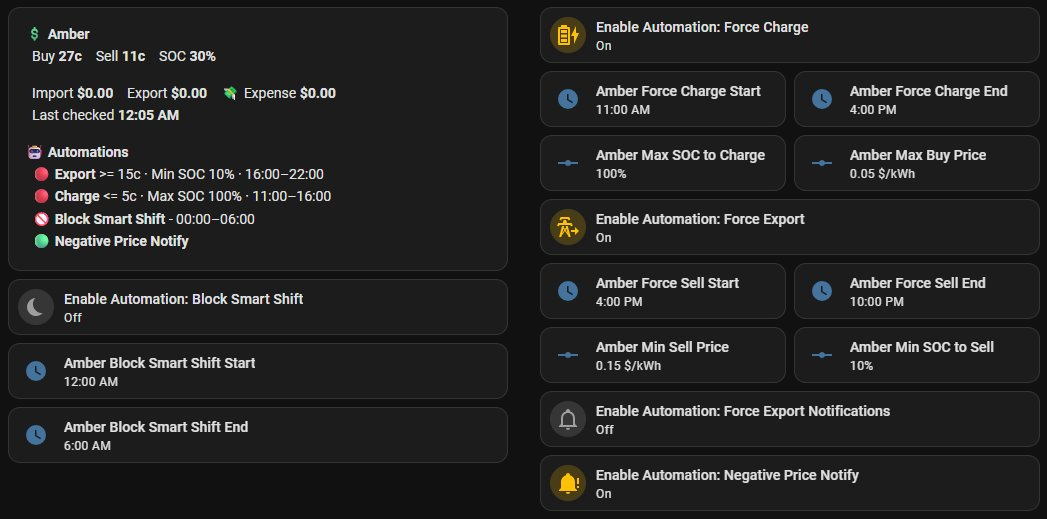
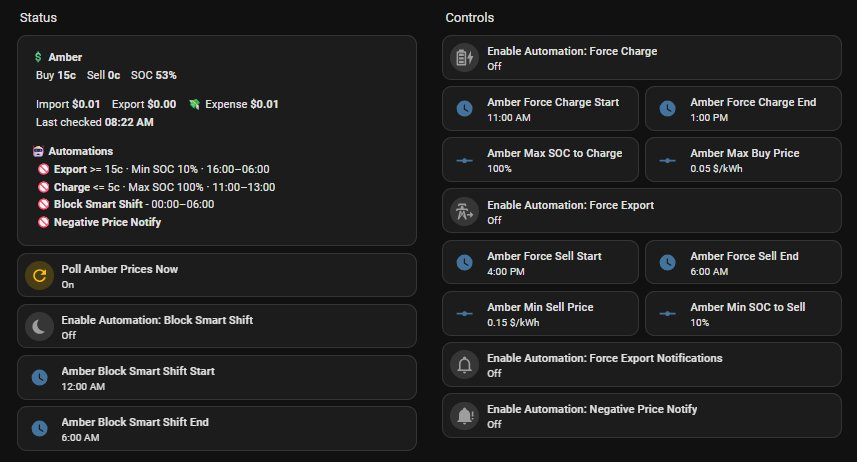
Fixed smtp

diff --git a/custom_components/amber_integration/scripts/configure_smtp.py b/custom_components/amber_integration/scripts/configure_smtp.py
@@ -1,6 +1,7 @@
 #!/usr/bin/env python3
 """Configure SMTP notifications in amber.yaml"""
 import sys
+import re
 
 pkg_path = sys.argv[1]
 smtp_user = sys.argv[2]
@@ -9,26 +10,14 @@ with open(pkg_path, 'r') as f:
     content = f.read()
 
 # Already configured
-if '- name: amber_smtp' in content and '#' not in content.split('- name: amber_smtp')[0].split('\n')[-1]:
+if '  - name: amber_smtp' in content:
     print("already configured")
     sys.exit(0)
 
-# Find and replace the commented smtp block
-commented = (
-    '  # Then add "- service: amber_smtp" to the group services above.\n'
-    '  #\n'
-    '  # - name: amber_smtp\n'
-    '  #   platform: smtp\n'
-    '  #   server: !secret smtp_server\n'
-    '  #   port: 587\n'
-    '  #   timeout: 15\n'
-    '  #   sender: !secret smtp_username\n'
-    '  #   encryption: starttls\n'
-    '  #   username: !secret smtp_username\n'
-    '  #   password: !secret smtp_password\n'
-    '  #   recipient:\n'
-    '  #     - "your@email.com"    # <- your email address\n'
-    '  #   sender_name: "Home Assistant - Amber"'
+# Replace the entire optional email section including surrounding comment lines
+commented_pattern = re.compile(
+    r'  # ─── OPTIONAL: uncomment and fill in to add email.*?(?=\n  # ─── OPTIONAL: add mobile)',
+    re.DOTALL
 )
 
 uncommented = (
@@ -42,16 +31,19 @@ uncommented = (
     '    username: !secret smtp_username\n'
     '    password: !secret smtp_password\n'
     '    recipient:\n'
-    f'      - "{smtp_user}"\n'
-    '    sender_name: "Home Assistant - Amber"'
+    '      - "' + smtp_user + '"\n'
+    '    sender_name: "Home Assistant - Amber"\n'
 )
 
-content = content.replace(commented, uncommented)
-content = content.replace(
-    '      - service: persistent_notification',
-    '      - service: persistent_notification\n      - service: amber_smtp'
-)
-
-with open(pkg_path, 'w') as f:
-    f.write(content)
-print("done")
+if commented_pattern.search(content):
+    content = commented_pattern.sub(uncommented, content)
+    content = content.replace(
+        '      - service: persistent_notification',
+        '      - service: persistent_notification\n      - service: amber_smtp'
+    )
+    with open(pkg_path, 'w') as f:
+        f.write(content)
+    print("done")
+else:
+    print("smtp block not found in package")
+    sys.exit(1)

diff --git a/scripts/configure_smtp.py b/scripts/configure_smtp.py
@@ -1,6 +1,7 @@
 #!/usr/bin/env python3
 """Configure SMTP notifications in amber.yaml"""
 import sys
+import re
 
 pkg_path = sys.argv[1]
 smtp_user = sys.argv[2]
@@ -9,26 +10,14 @@ with open(pkg_path, 'r') as f:
     content = f.read()
 
 # Already configured
-if '- name: amber_smtp' in content and '#' not in content.split('- name: amber_smtp')[0].split('\n')[-1]:
+if '  - name: amber_smtp' in content:
     print("already configured")
     sys.exit(0)
 
-# Find and replace the commented smtp block
-commented = (
-    '  # Then add "- service: amber_smtp" to the group services above.\n'
-    '  #\n'
-    '  # - name: amber_smtp\n'
-    '  #   platform: smtp\n'
-    '  #   server: !secret smtp_server\n'
-    '  #   port: 587\n'
-    '  #   timeout: 15\n'
-    '  #   sender: !secret smtp_username\n'
-    '  #   encryption: starttls\n'
-    '  #   username: !secret smtp_username\n'
-    '  #   password: !secret smtp_password\n'
-    '  #   recipient:\n'
-    '  #     - "your@email.com"    # <- your email address\n'
-    '  #   sender_name: "Home Assistant - Amber"'
+# Replace the entire optional email section including surrounding comment lines
+commented_pattern = re.compile(
+    r'  # ─── OPTIONAL: uncomment and fill in to add email.*?(?=\n  # ─── OPTIONAL: add mobile)',
+    re.DOTALL
 )
 
 uncommented = (
@@ -42,16 +31,19 @@ uncommented = (
     '    username: !secret smtp_username\n'
     '    password: !secret smtp_password\n'
     '    recipient:\n'
-    f'      - "{smtp_user}"\n'
-    '    sender_name: "Home Assistant - Amber"'
+    '      - "' + smtp_user + '"\n'
+    '    sender_name: "Home Assistant - Amber"\n'
 )
 
-content = content.replace(commented, uncommented)
-content = content.replace(
-    '      - service: persistent_notification',
-    '      - service: persistent_notification\n      - service: amber_smtp'
-)
-
-with open(pkg_path, 'w') as f:
-    f.write(content)
-print("done")
+if commented_pattern.search(content):
+    content = commented_pattern.sub(uncommented, content)
+    content = content.replace(
+        '      - service: persistent_notification',
+        '      - service: persistent_notification\n      - service: amber_smtp'
+    )
+    with open(pkg_path, 'w') as f:
+        f.write(content)
+    print("done")
+else:
+    print("smtp block not found in package")
+    sys.exit(1)

diff --git a/README.md b/README.md
@@ -176,36 +176,6 @@ The output should end with:
 
 ---
 
-### Step 3 — Test Authentication
-
-```bash
-python3 /config/scripts/amber_auth.py
-```
-
-Expected output:
-```
-Authenticating as your@email.com...
-Authentication successful
-Site ID:   01K...
-Config ID: 01K...
-Token cached successfully
-```
-
-Then test a live price poll:
-
-```bash
-python3 /config/scripts/amber_graphql.py live
-```
-
-Expected output:
-```
-Buy:    28.5c/kWh
-Sell:   5.2c/kWh
-HA updated. Last polled: 2026-04-08 10:30:00
-```
-
----
-
 ### Step 4 — Dashboard Card
 
 The dashboard card shows live Amber prices, current interval cost/earnings, and the status of all automations at a glance.
@@ -214,7 +184,20 @@ The dashboard card shows live Amber prices, current interval cost/earnings, and 
 
 **Icon legend:** 🟢 enabled & active · 🔴 enabled, waiting for conditions · 🚫 disabled · ⚠ blocked
 
-### Manually Adding the card
+
+---
+
+## Using the Dashboard Card
+
+![Dashboard Card](images/dashboard_card.jpeg)
+
+If you opted to install the dashboard during setup, there will be an **Amber** dashboard in your sidebar. Click on it to see your controls. Click **Poll Amber Prices Now** to load the current info from Amber — data will be at default settings until the first poll runs.
+
+If you did not opt to auto install, see the manual instructions below.
+
+---
+
+### Manually Adding the Card
 
 > **Note:** Recent HA versions only support Entities cards on Overview — Markdown cards require a custom dashboard. Create one first: **Settings → Dashboards → Add Dashboard → New dashboard from scratch**.
 
@@ -233,9 +216,8 @@ For each group below, add an **Entities** card and include the listed entities.
 
 > **Tip:** You can adjust the width of entity cards in edit mode — click the card → drag the resize handle, or use **Layout** options to set columns.
 
----
 
-## Configuring the Amber Integration Using the Dashboard Card
+---
 
 Below explains the automations and configuration options of the Custom Amber Integration.
 
